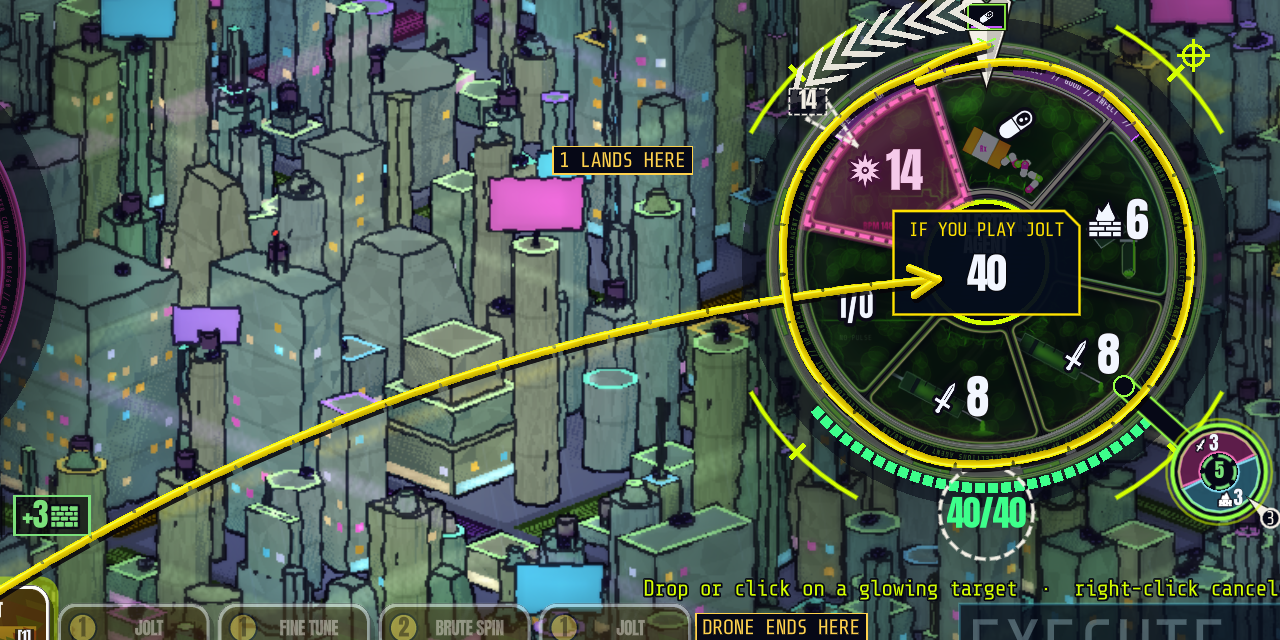
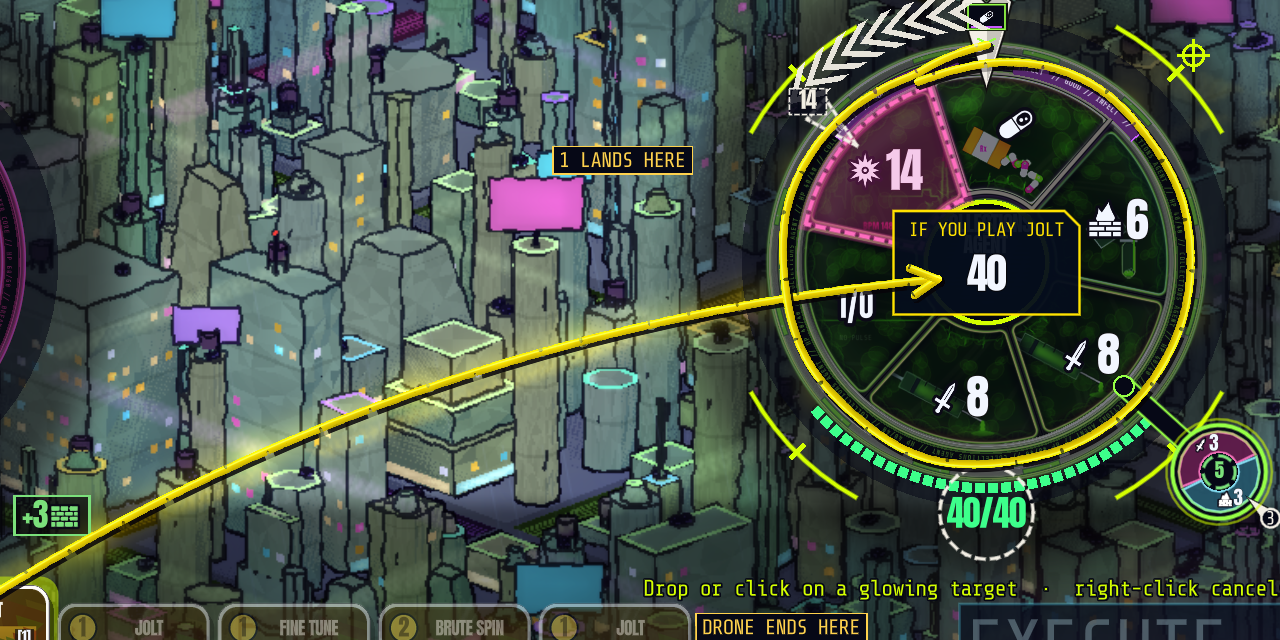
B1b tweak: each dropout gap uniform over 40-70 px (seeded, shader and script in step); the shadow rim runs on past a bite

diff --git a/docs/DECISIONS.md b/docs/DECISIONS.md
@@ -135,7 +135,14 @@ at text 1.0 and 2.0). Test: `tests/unit/test_b1b_wax_pencil.gd`.
   (`seg_from_px` / `seg_to_px`), so the shader's distance is the arc length, not the tiled UV (which ran at about twice
   the arc length in widths, halving the spacing). Tests: `test_b1b_wax_pencil::test_a_dropout_is_a_partial_width_nibble_from_one_seeded_edge`,
   `::test_the_shadow_fades_over_the_whole_gap_so_no_dark_tick_shows`, `::test_dropouts_are_spaced_in_screen_px_on_a_curved_zoomed_stroke`.
-  Crop resent: `B1b_crop_aim.png`. Merge with B1a: the HQ run's TARGET pencil joins `UiScrimPools.LIFT_GROUP` with its marks (over the scrim).
+  Optional tweak (art director, 2026-10-06, no review loop): each gap is drawn uniformly from the whole 40-70 px
+  range (`DROPOUT_GAP`, seeded), not 55 +- 7.5: the dropouts come in pairs 110 px long, one at the pair's start and one
+  a seeded gap g on, so every gap (g or 110 - g) is uniform in 40-70, with a seeded phase so no stroke starts on one
+  (`GreasePencilMark.dropout_hit` and the shader's `dropout_hit` compute the same; words: 70-110). Reading the new
+  1080p frame, the under-shadow's dark rim was broken at every gap (its full-width fade read as a dashed underline):
+  the shadow now fades only under the bite (`dropout_shadow_extra` 0.15 deeper for its offset, at most 0.75 of the
+  width), so the rim on the far edge runs on unbroken. Test: the spacing test checks the gaps fill the range
+  uniformly (a third in each third). Crop resent: `B1b_crop_aim.png`. Merge with B1a: the HQ run's TARGET pencil joins `UiScrimPools.LIFT_GROUP` with its marks (over the scrim).
 
 ### 2026-10-06 — B1a b — the art director's fixes: pools that read, the network over the scrim
 The art-pass review of B1a (c270cd7f; relayed by the orchestrator): architecture approved; three fixes, Q1 and Q2
